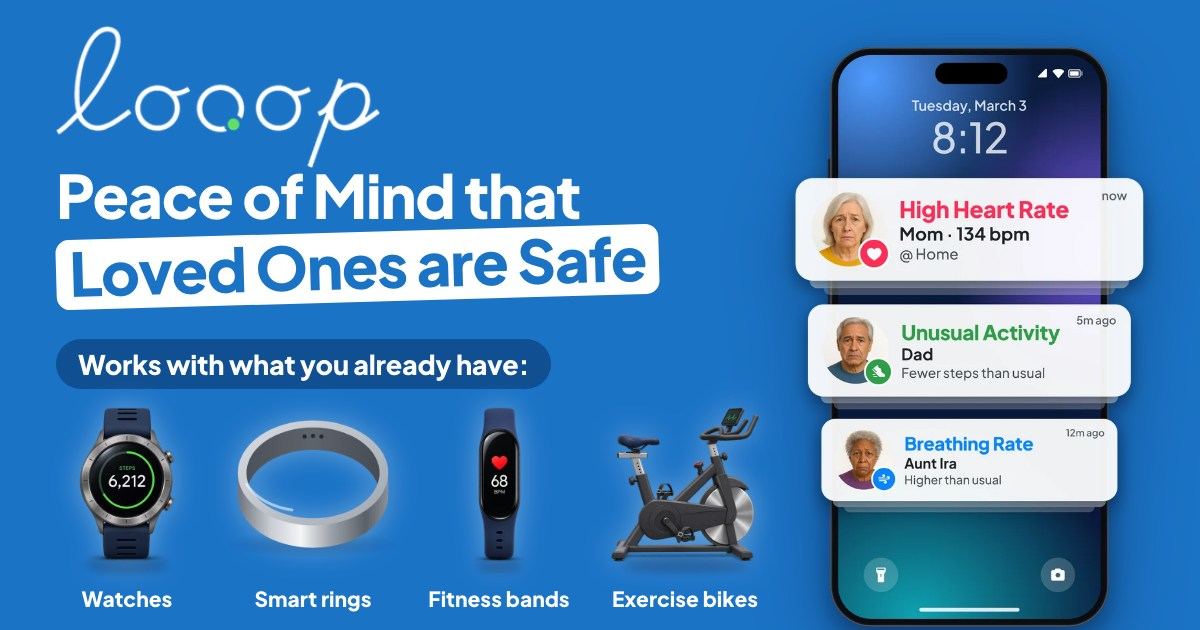
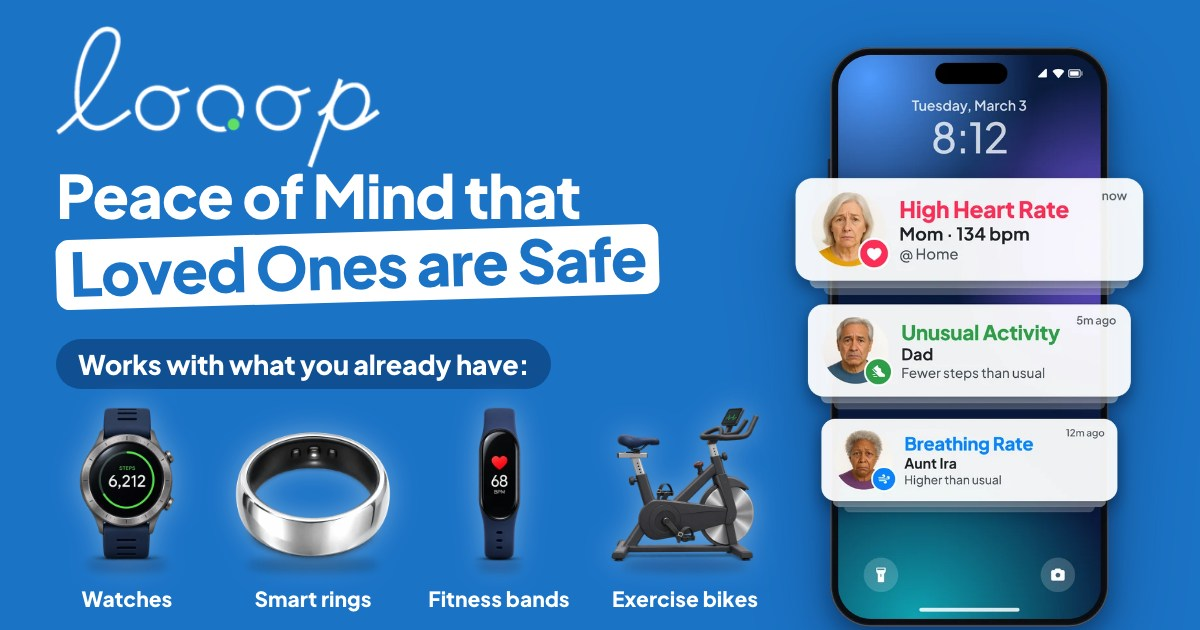
PRLog photo: clean silver ring

Changed region(s): [[0.185, 0.6635, 0.3392, 0.9048]]

diff --git a/CHANGELOG.md b/CHANGELOG.md
@@ -2,6 +2,11 @@
 
 Changes to thelooopapp.com, newest first. This file is not published (see `_config.yml`).
 
+## 2026-11-12 12:40 CT
+
+### Changed
+- `images/press/looop-health-alerts.jpg`: the smart ring is now the realistic ring art in silver (from `dev-smart-ring.webp`); the previous silver ring had a highlight floating inside the opening. 1200 x 630 JPG, 121 KB.
+
 ## 2026-11-12 12:20 CT
 
 ### Changed
